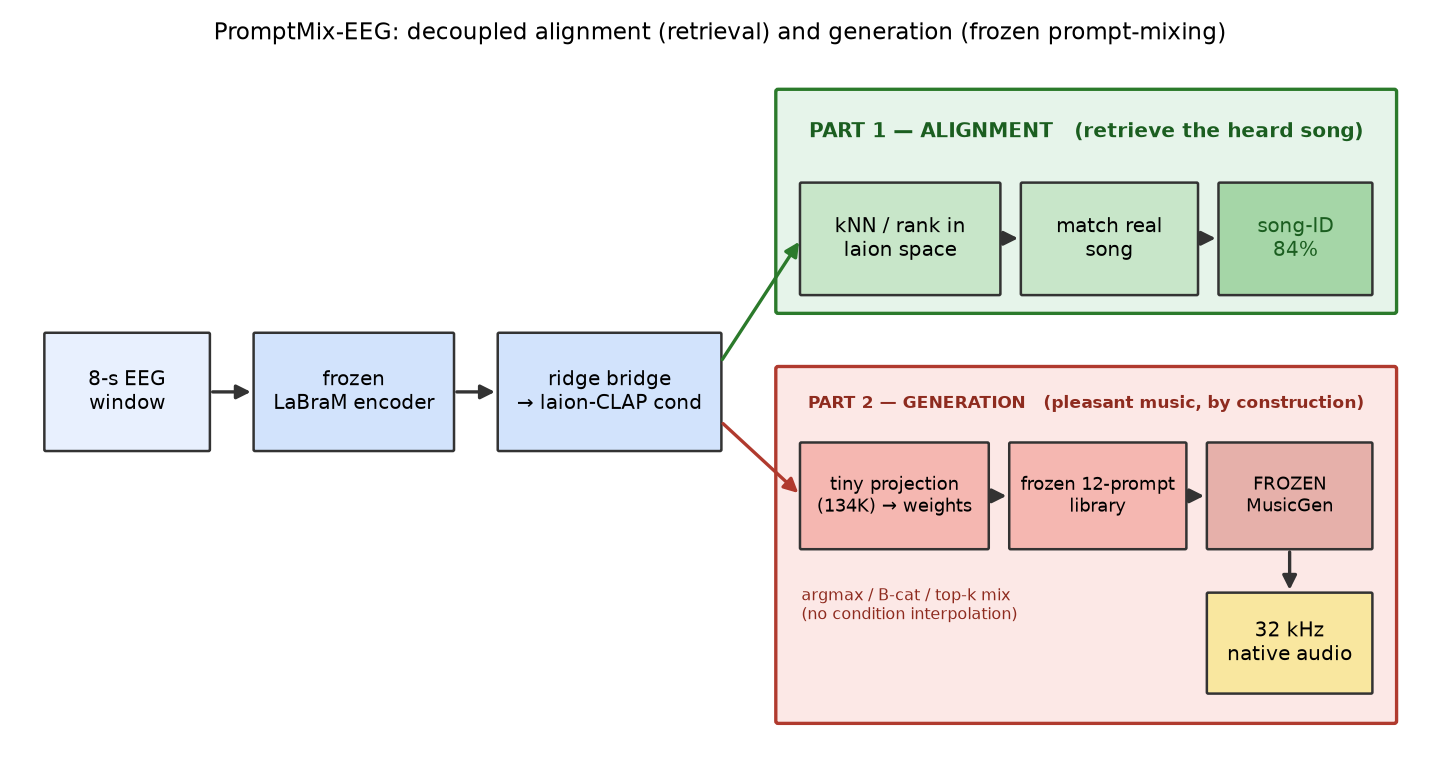
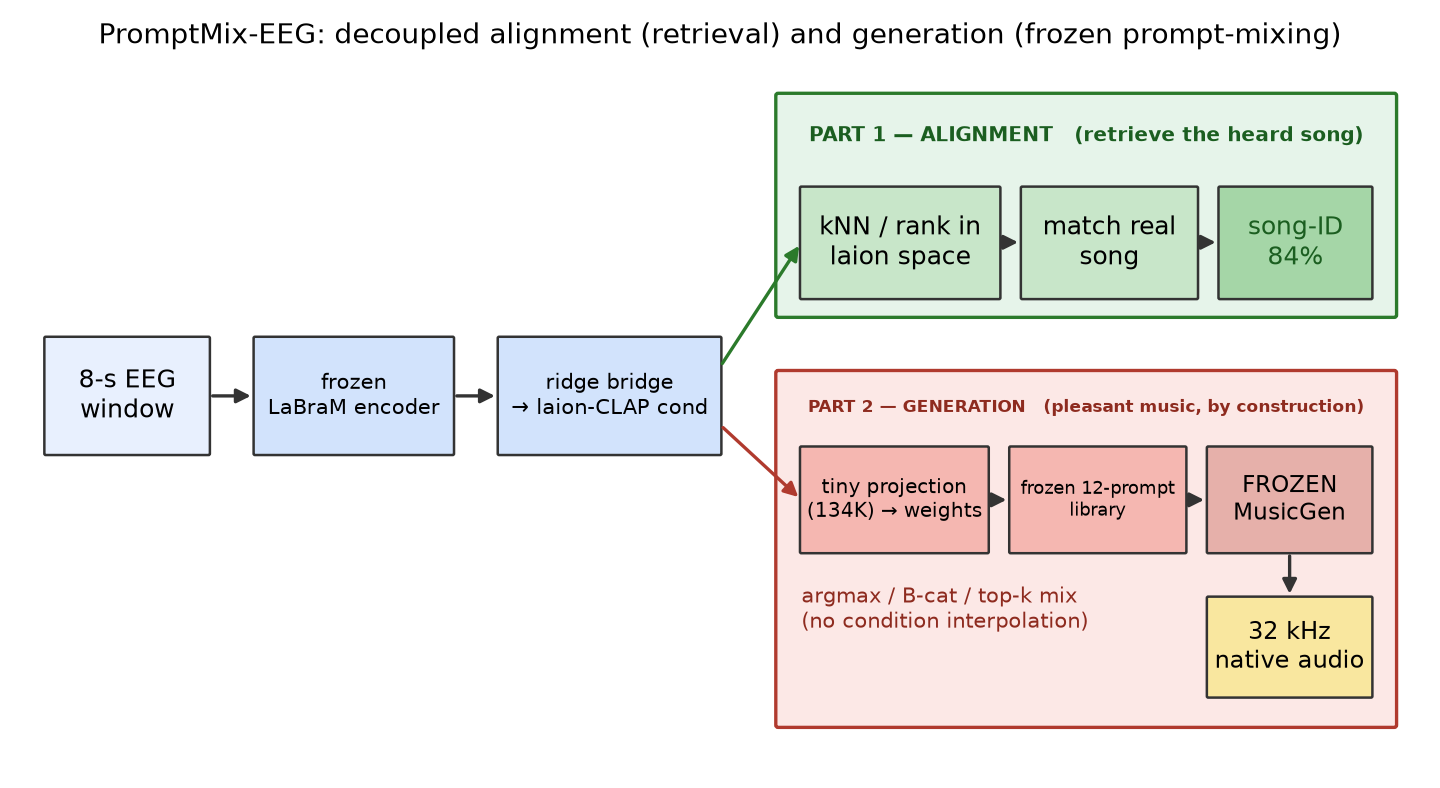
page: stack the radii figures full width; enlarge architecture-diagram type
A 2-column cell rendered the 12-tick heatmap and the bar charts at ~445px, which
shrinks their labels below readable size. The figures now stack near their native
width and the diagram's type is 12-13pt so it survives the same downscale.

diff --git a/index.html b/index.html
@@ -18,8 +18,10 @@
   .mut{color:var(--mut);font-size:14px}
   img{max-width:100%;border-radius:10px;border:1px solid #222c42;display:block}
   figure{margin:0}
-  .span{grid-column:1/-1}
-  .span.narrow img{max-width:560px;margin:0 auto}
+  /* the radii figures are dense (12 tick labels, 66 cell values) — a 2-col cell shrinks their
+     text below readable size, so they stack near their native width instead */
+  .stack{display:grid;gap:26px}
+  .stack img{max-width:790px;margin:0 auto}
   figcaption{color:var(--mut);font-size:13px;margin-top:6px}
   audio{width:100%;margin-top:6px}
   .row{display:flex;justify-content:space-between;align-items:baseline}
@@ -56,15 +58,21 @@
   </div>
 
   <h2>Three radii — the pre-gate that decided whether to train at all</h2>
-  <div class="grid">
+  <div class="stack">
     <figure><img src="assets/fig/fig1_coverage_radius.png"><figcaption><b>Coverage</b>: the prompt library's convex hull reaches real 8-s windows at CLAP cosine 0.86→0.88→0.90 (K=12/24/36), +0.16 over trivial baselines.</figcaption></figure>
     <figure><img src="assets/fig/fig10_mfcc_fad.png"><figcaption><b>Musicality</b>: a texture-aware MFCC-Fréchet distance shows frozen output is 8.6× closer to real-music timbre than a fine-tuned generator.</figcaption></figure>
-    <figure class="span"><img src="assets/fig/fig8_tolerance_map.png"><figcaption><b>Tolerance</b>: interpolating two prompt embeddings goes off-manifold for 39% of all 66 pairs → never interpolate conditions; mix natively. (Shown full width so the 66 cell values stay legible.)</figcaption></figure>
-    <figure class="span narrow"><img src="assets/fig/fig5_tsne_coverage.png"><figcaption><b>Honest caveat</b>: t-SNE shows the library occupies only one region of the real cloud; the high absolute cosine is partly laion-clustering inflation.</figcaption></figure>
+    <figure><img src="assets/fig/fig8_tolerance_map.png"><figcaption><b>Tolerance</b>: interpolating two prompt embeddings goes off-manifold for 39% of all 66 pairs → never interpolate conditions; mix natively.</figcaption></figure>
+    <figure><img src="assets/fig/fig5_tsne_coverage.png"><figcaption><b>Honest caveat</b>: t-SNE shows the library occupies only one region of the real cloud; the high absolute cosine is partly laion-clustering inflation.</figcaption></figure>
   </div>
 
   <h2>Architecture</h2>
   <figure><img src="assets/fig/fig0_architecture.png"><figcaption>Shared EEG→laion bridge feeds two independent heads: a retrieval head (Part 1) and a prompt-mixture head driving the frozen generator (Part 2).</figcaption></figure>
+
+  <h2>Part 1 evidence — retrieving the song the subject heard</h2>
+  <p class="mut">Readout of the <i>same</i> aligned embedding used in the card above: each held-out EEG window is matched to the nearest of 14 <b>song centroids</b> built from the heard audio's laion-CLAP vectors. 10% subject-groups held out (seed&nbsp;0).</p>
+  <div class="grid">
+    <figure class="span narrow"><img src="assets/fig/fig11_song_confusion.png"><figcaption><b>14-way song confusion</b>, true song&nbsp;×&nbsp;retrieved song. Cell colour is row-normalised (per-song recall); the numbers are window counts. Strongly dominant diagonal → <b>top-1 88.2%</b> (chance 7.1%). T0–T9 = NMED-T songs, H0–H3 = NMED-H (Bollywood) songs. This centroid readout (88.2%) is consistent with the 84.9% end-to-end <i>retrieve→play</i> figure — the same alignment measured from two angles.</figcaption></figure>
+  </div>
 
   <h2>Listen — what the frozen generator produces</h2>
   <p class="mut">One native MusicGen sample per genre prompt in the library (the styles the EEG head can select). These are the generator's own outputs — no fine-tuning. (Reference audio of the actual heard songs is not published for copyright.)</p>

diff --git a/code/figures/make_fig_architecture.py b/code/figures/make_fig_architecture.py
@@ -19,7 +19,7 @@ sys.path.insert(0, str(Path(__file__).parent))
 from figstyle import fit_text, save
 
 
-def box(ax, fig, x, y, w, h, text, fc, fs=9.5, tc="black"):
+def box(ax, fig, x, y, w, h, text, fc, fs=12, tc="black"):
     p = FancyBboxPatch((x, y), w, h, boxstyle="round,pad=0.012", fc=fc, ec="#333", lw=1.2)
     ax.add_patch(p)
     t = ax.text(x + w / 2, y + h / 2, text, ha="center", va="center", fontsize=fs, color=tc)
@@ -30,7 +30,7 @@ def box(ax, fig, x, y, w, h, text, fc, fs=9.5, tc="black"):
     return p
 
 
-def header(ax, fig, panel, cx, y, text, color, fs=10.5):
+def header(ax, fig, panel, cx, y, text, color, fs=13):
     t = ax.text(cx, y, text, ha="center", va="center", fontsize=fs, color=color, weight="bold")
     fig.canvas.draw()
     used = fit_text(fig, panel, t, margin=0.94)
@@ -70,20 +70,20 @@ def main():
     ax.add_patch(p2)
     header(ax, fig, p2, 9.15, 3.1, "PART 2 — GENERATION   (pleasant music, by construction)",
            "#8e2b1f")
-    box(ax, fig, 6.7, 1.85, 1.6, 0.9, "tiny projection\n(134K) → weights", "#f5b7b1", fs=8.5)
-    box(ax, fig, 8.5, 1.85, 1.5, 0.9, "frozen 12-prompt\nlibrary", "#f5b7b1", fs=8.5)
-    box(ax, fig, 10.2, 1.85, 1.4, 0.9, "FROZEN\nMusicGen", "#e6b0aa", fs=8.5)
+    box(ax, fig, 6.7, 1.85, 1.6, 0.9, "tiny projection\n(134K) → weights", "#f5b7b1", fs=11)
+    box(ax, fig, 8.5, 1.85, 1.5, 0.9, "frozen 12-prompt\nlibrary", "#f5b7b1", fs=11)
+    box(ax, fig, 10.2, 1.85, 1.4, 0.9, "FROZEN\nMusicGen", "#e6b0aa", fs=11)
     box(ax, fig, 10.2, 0.6, 1.4, 0.85, "32 kHz\nnative audio", "#f9e79f")
     arrow(ax, 8.3, 2.3, 8.5, 2.3); arrow(ax, 10.0, 2.3, 10.2, 2.3)
     arrow(ax, 10.9, 1.85, 10.9, 1.45)
     arrow(ax, 6.0, 2.95, 6.7, 2.3, color="#b03a2e")
     note = ax.text(6.7, 1.35, "argmax / B-cat / top-k mix\n(no condition interpolation)",
-                   fontsize=7.5, color="#8e2b1f", ha="left", va="center")
+                   fontsize=10, color="#8e2b1f", ha="left", va="center")
     fig.canvas.draw()
     fit_text(fig, p2, note, margin=0.62)
 
     ax.set_title("PromptMix-EEG: decoupled alignment (retrieval) and generation (frozen prompt-mixing)",
-                 fontsize=11, pad=14)
+                 fontsize=13.5, pad=14)
     save(fig, "fig0_architecture.png")
 
 
